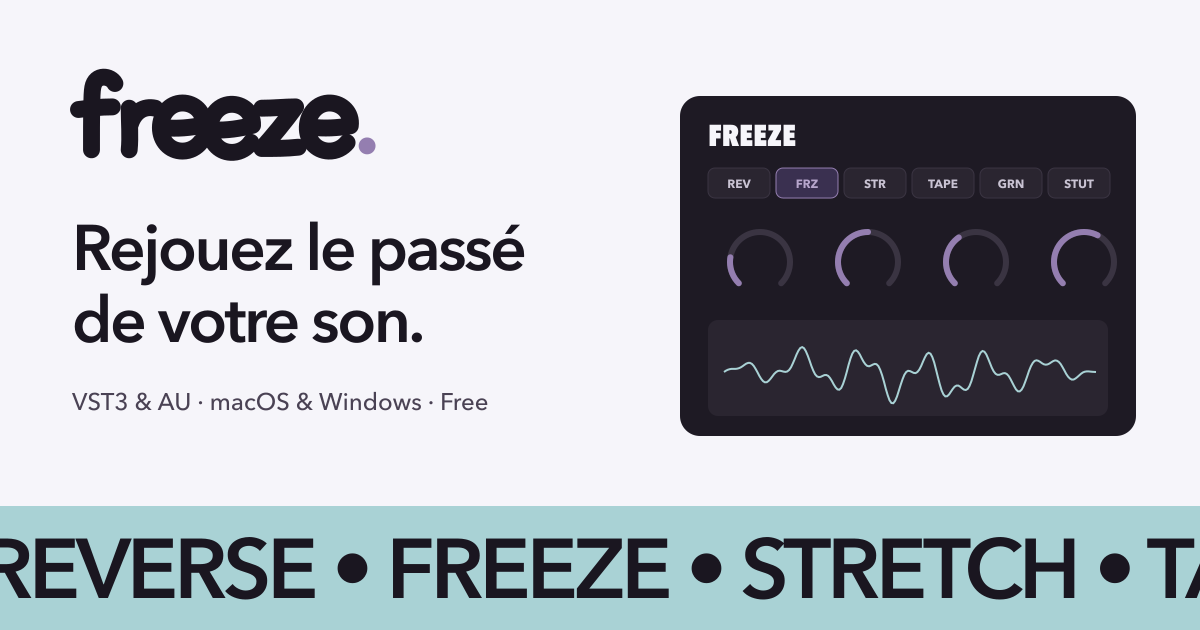
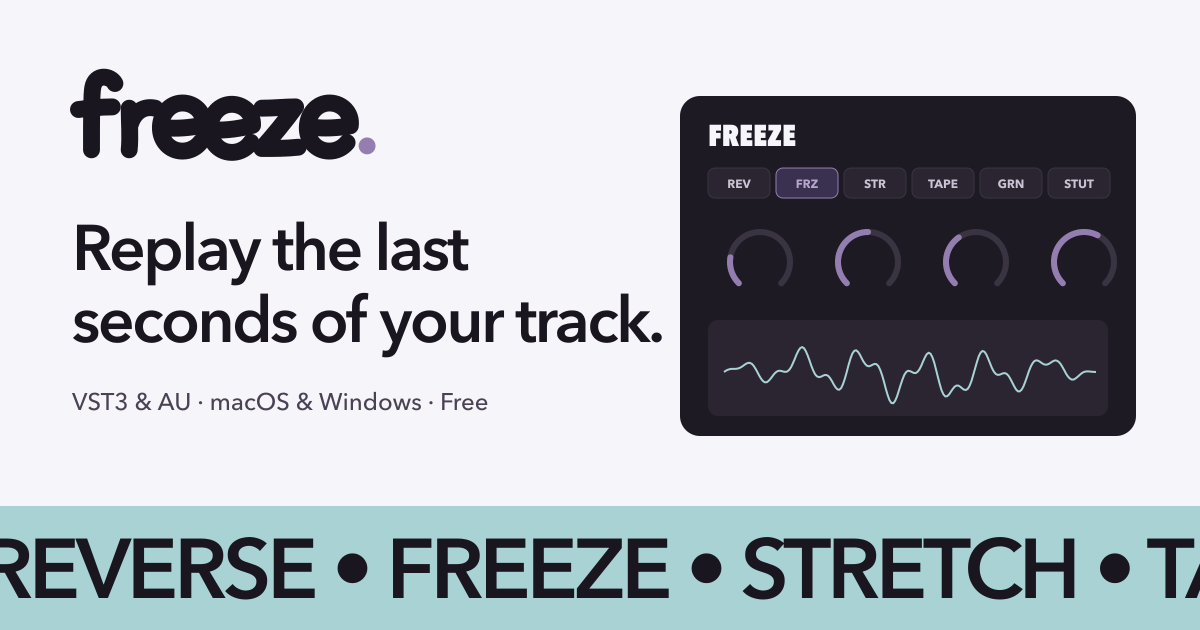
Link preview: English OG image, shorter title, updated description.
The OG image URL carries the version so chat apps refetch it.

Changed region(s): [[0.0617, 0.3317, 0.555, 0.573]]

diff --git a/src/i18n/ui.ts b/src/i18n/ui.ts
@@ -10,9 +10,9 @@ export const defaultLang: Lang = 'en';
 export const ui = {
   en: {
     'meta.title':
-      'Freeze Audio by sheezy — free reverse, freeze & stutter plugin (AU, VST3) for macOS and Windows',
+      'Freeze Audio — free reverse & freeze plugin for macOS & Windows',
     'meta.description':
-      'Freeze records the last seconds of your track and replays them backwards, frozen, stretched, tape-stopped, as grains or stutters. Free VST3 and Audio Unit for macOS 12+ and Windows 10/11.',
+      'Replay the last seconds of your track backwards, frozen, stretched, tape-stopped, as grains or stutters, with freezes that follow your tempo. Free VST3 & AU for macOS and Windows.',
     'meta.ogAlt': 'Freeze Audio by sheezy — plugin interface and tagline',
     'meta.skip': 'Skip to content',
     'meta.jsonLdSubCategory': 'Audio effect plugin (VST3, Audio Unit)',
@@ -111,9 +111,9 @@ export const ui = {
   },
   fr: {
     'meta.title':
-      'Freeze Audio by sheezy — plugin gratuit reverse, freeze et stutter (AU, VST3) pour macOS et Windows',
+      'Freeze Audio — plugin gratuit de reverse et freeze pour macOS et Windows',
     'meta.description':
-      'Freeze enregistre les dernières secondes de votre piste et les rejoue à l’envers, gelées, ralenties, en arrêt de bande, en grains ou en stutter. VST3 et Audio Unit gratuits pour macOS 12+ et Windows 10/11.',
+      'Rejouez les dernières secondes de votre piste à l’envers, gelées, ralenties, en arrêt de bande, en grains ou en stutter, avec des gels calés sur votre tempo. VST3 et AU gratuits pour macOS et Windows.',
     'meta.ogAlt': 'Freeze Audio by sheezy — interface du plugin et slogan',
     'meta.skip': 'Aller au contenu',
     'meta.jsonLdSubCategory': 'Plugin d’effet audio (VST3, Audio Unit)',
